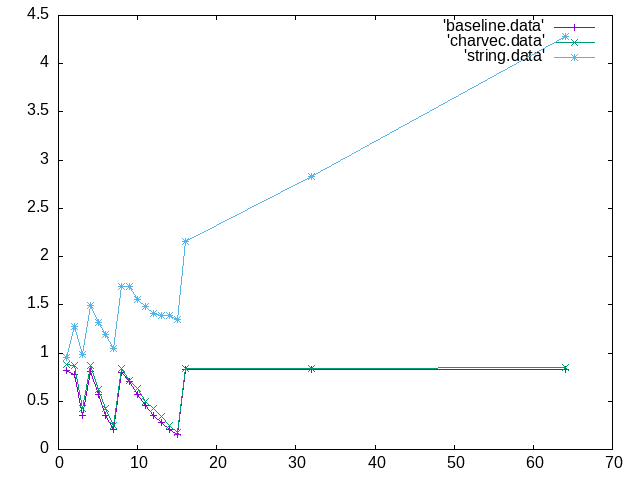
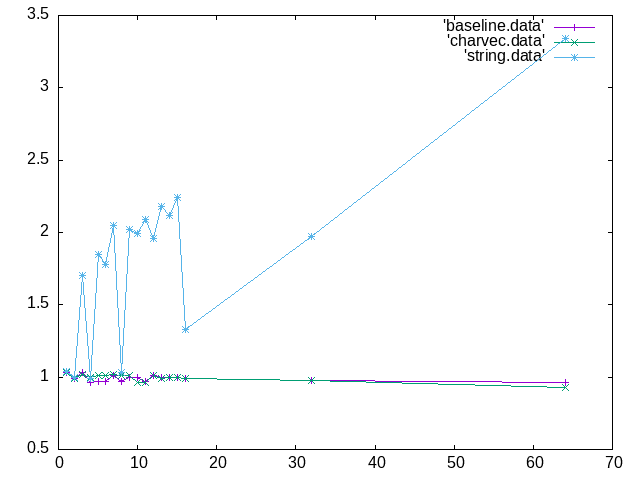
changed prng to fastrand and reran benches

diff --git a/charvec.rs b/charvec.rs
@@ -1,5 +1,4 @@
-use rand::prelude::*;
-use rand_pcg::Pcg64Mcg;
+use fastrand::*;
 
 #[derive(Debug, Clone, Copy)]
 enum Charset {
@@ -8,40 +7,40 @@ enum Charset {
 }
 
 impl Charset {
-    fn gen_char(self, rng: &mut Pcg64Mcg) -> char {
+    fn gen_char(self, rng: &mut FastRand) -> char {
         match self {
-            Self::Unicode => rng.gen(),
-            Self::Ascii => rng.gen_range(0u8 as char..=0xffu8 as char),
+            Self::Unicode => rng.random(),
+            Self::Ascii => rng.rand_range(0u8 as char, char::try_from(0x100u32).unwrap()),
         }
     }
 }
 
-fn bench_string(rng: &mut Pcg64Mcg, charset: Charset, n: usize, m: usize) -> u32 {
+fn bench_string(rng: &mut FastRand, charset: Charset, n: usize, m: usize) -> u32 {
     let index: String = (0..m).map(|_| charset.gen_char(rng)).collect();
     let mut result = 0;
     for _ in 0..n {
-        let i = rng.gen_range(0..m);
+        let i = rng.rand_range(0, m);
         let c = index.chars().nth(i).unwrap();
         result ^= c as u32;
     }
     result
 }
 
-fn bench_charvec(rng: &mut Pcg64Mcg, charset: Charset, n: usize, m: usize) -> u32 {
+fn bench_charvec(rng: &mut FastRand, charset: Charset, n: usize, m: usize) -> u32 {
     let index: Vec<char> = (0..m).map(|_| charset.gen_char(rng)).collect();
     let mut result = 0;
     for _ in 0..n {
-        let i = rng.gen_range(0..m);
+        let i = rng.rand_range(0, m);
         let c = index[i];
         result ^= c as u32;
     }
     result
 }
 
-fn bench_baseline(rng: &mut Pcg64Mcg, _charset: Charset, n: usize, m: usize) -> u32 {
+fn bench_baseline(rng: &mut FastRand, _charset: Charset, n: usize, m: usize) -> u32 {
     let mut result = 0;
     for _ in 0..n {
-        let i: usize = rng.gen_range(0..m);
+        let i: usize = rng.rand_range(0, m);
         result ^= i as u32;
     }
     result
@@ -63,7 +62,6 @@ fn main() {
     let n = args[3].parse().unwrap();
     let m = args[4].parse().unwrap();
 
-    // XXX Initialize RNG with "default" PCG state.
-    let mut rng = Pcg64Mcg::new(0xcafef00dd15ea5e5);
+    let mut rng = FastRand::default();
     println!("{}", algorithm(&mut rng, charset, n, m));
 }
